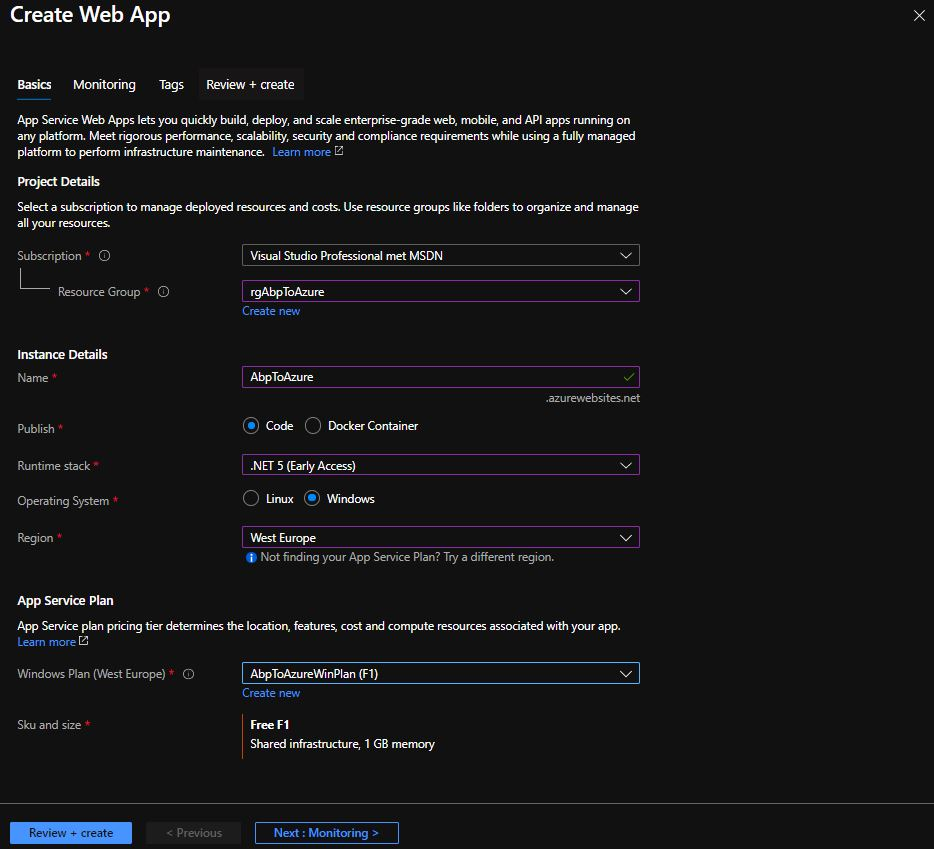
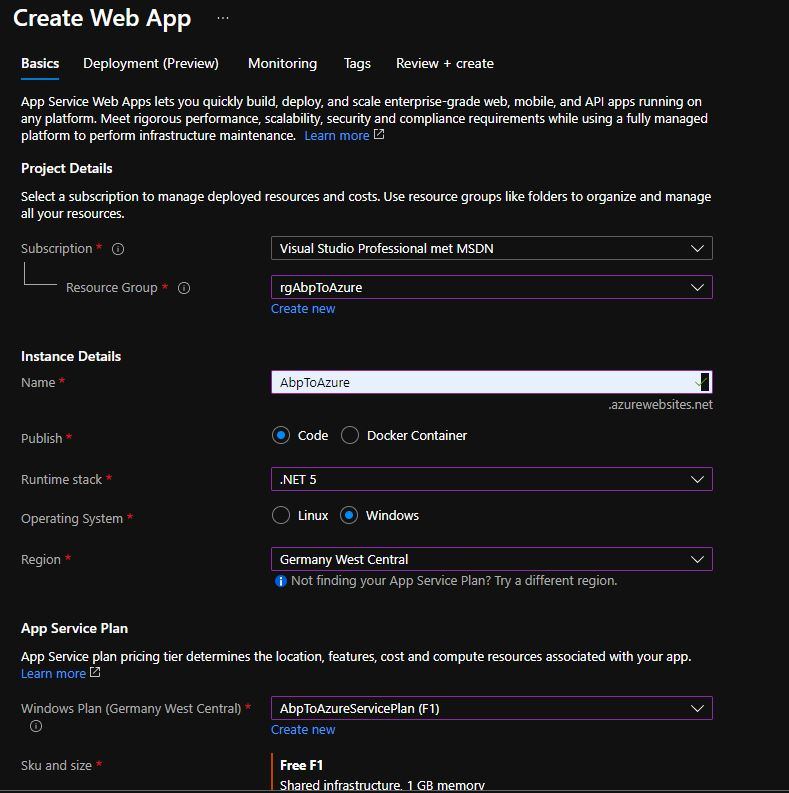
Update

diff --git a/Tutorial/Part8/Part8.md b/Tutorial/Part8/Part8.md
@@ -12,13 +12,13 @@
 
 6. Enter [YourAppName] in the *Name* input field
 
-7. Select *.NET 5 (Early Access)* in the *Runtime stack* dropdown.
+7. Select *.NET 5* in the *Runtime stack* dropdown.
 
 8. Select *Windows* as *Operating System*.
 
 9. Select the same *Region* as in the SQL server you created in Part 3.
 
-10. Select *[YourAppName]WinPlan* in the *Windows Plan* dropdown.
+10. Select *[YourAppName]ServicePlan* in the *Windows Plan* dropdown.
 
 11. Go for the *Dev/Test Free F1* version in the *Sku and size* section.
 
